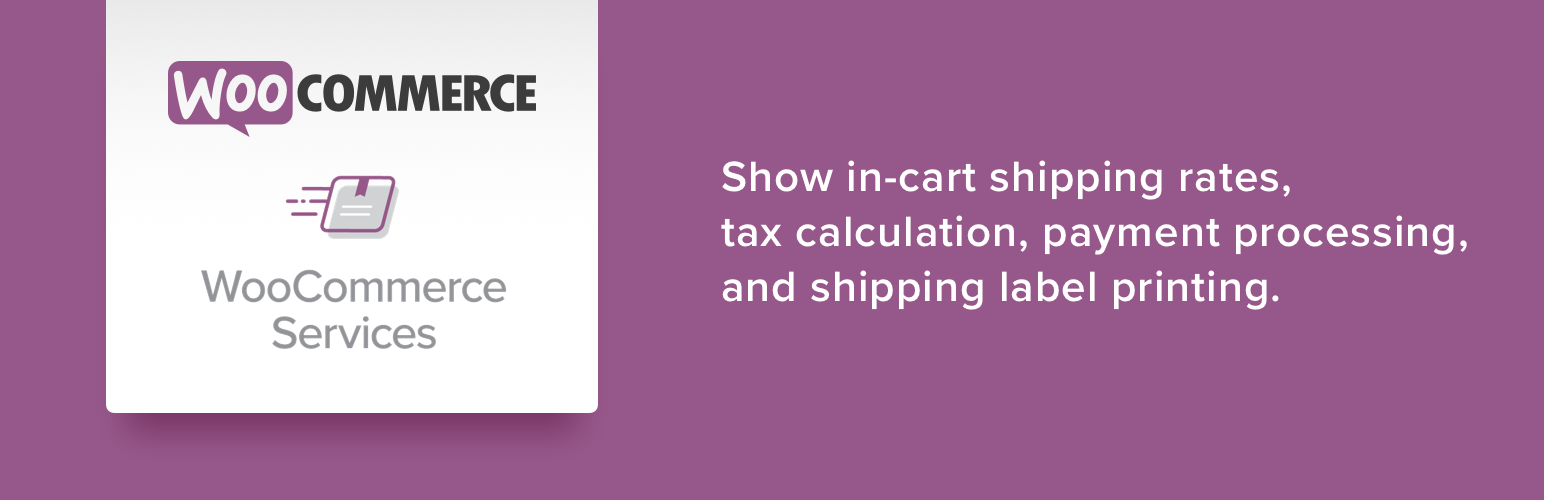
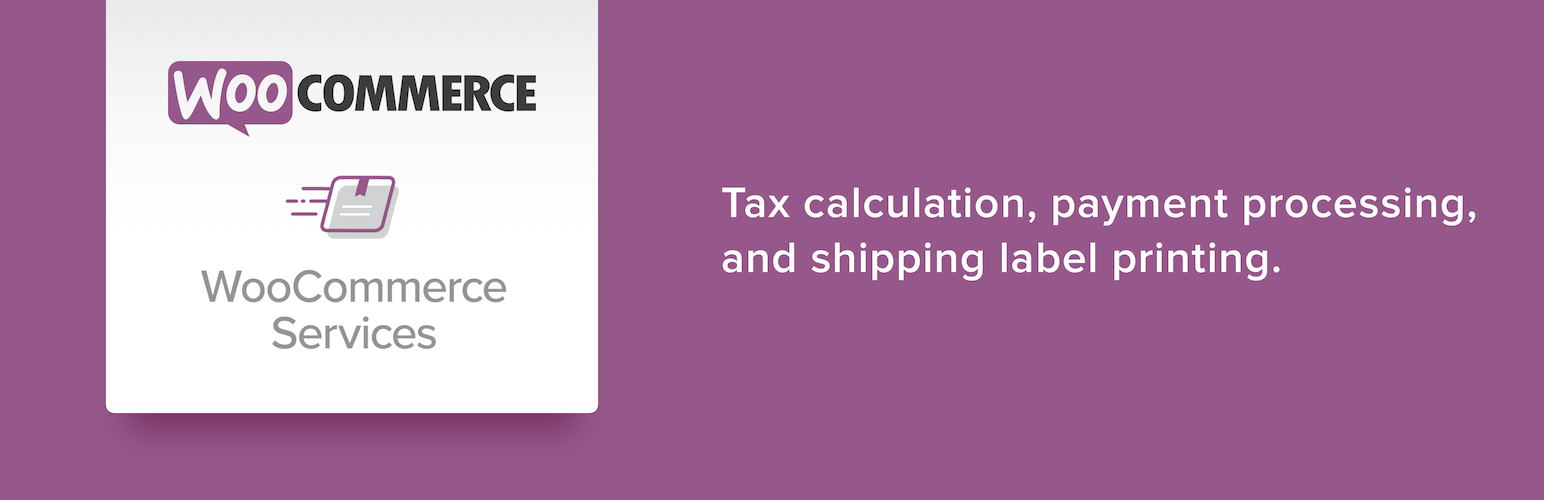
Release 1.17.0 (#1519)
* Update plugin version and add changelog entry.

* Update translation files for new plugin version.

* Add Rado as a contributor

* Remove live rates from plugin banner.

* Update changelog.

* Update readme.txt

* Fix banner size.

Changed region(s): [[0.4663, 0.3, 0.9637, 0.63], [0.2176, 0.15, 0.3109, 0.21]]

diff --git a/woocommerce-services.php b/woocommerce-services.php
@@ -7,9 +7,9 @@
  * Author URI: https://woocommerce.com/
  * Text Domain: woocommerce-services
  * Domain Path: /i18n/languages/
- * Version: 1.16.1
+ * Version: 1.17.0
  * WC requires at least: 3.0.0
- * WC tested up to: 3.4.3
+ * WC tested up to: 3.5.0
  *
  * Copyright (c) 2017 Automattic
  *
